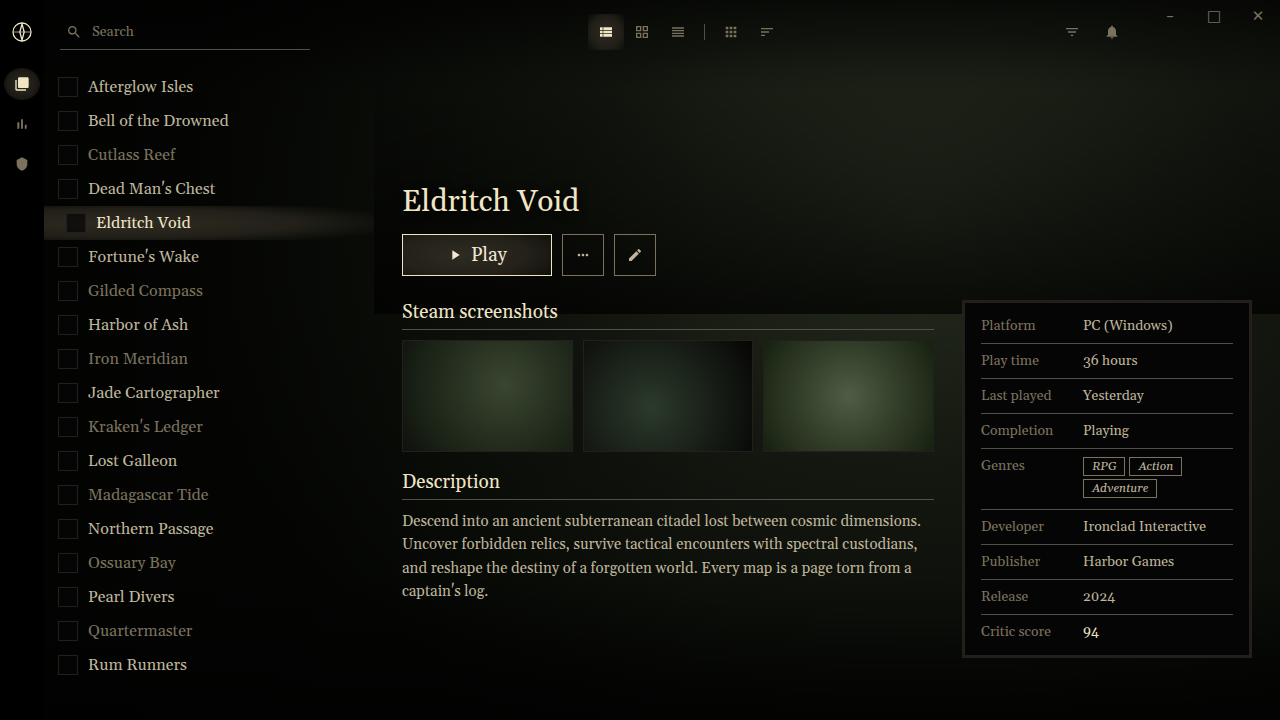
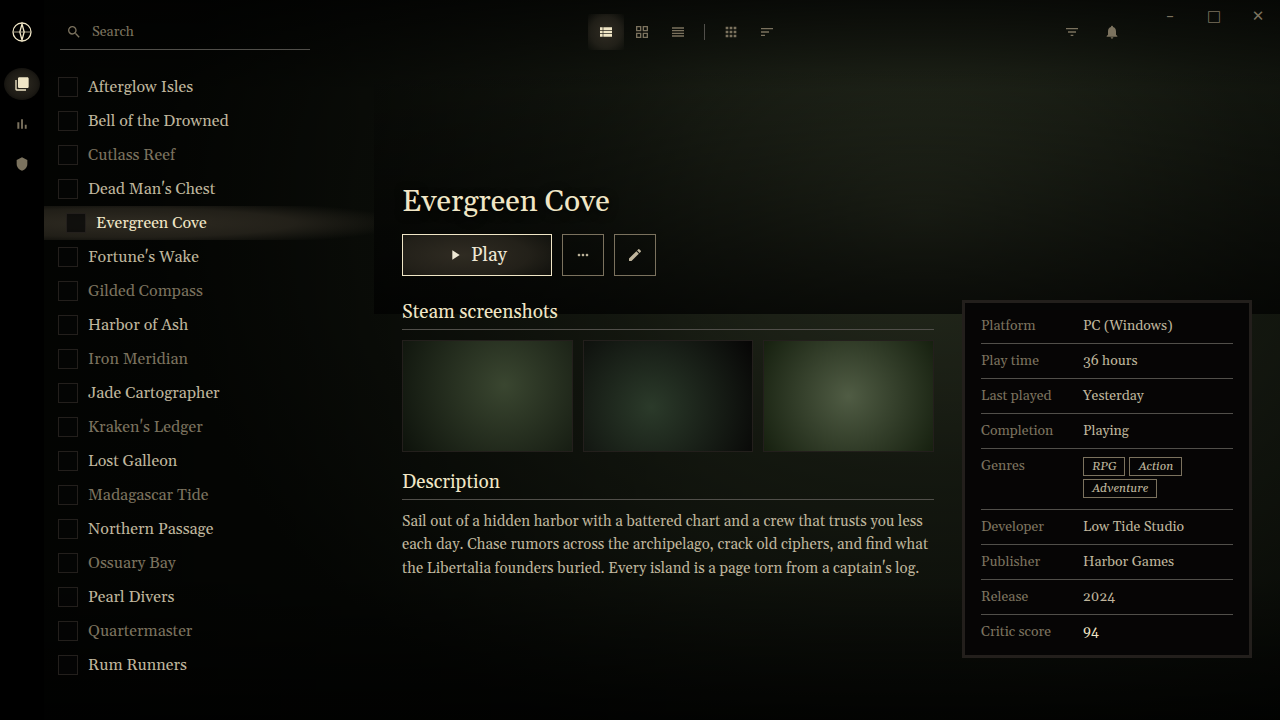
Libertalia: replace CornerRadiusFull on the count badge, refresh previews, unofficial wording in listing
Claude-Session: https://claude.ai/code/session_0189Q9dohYNsLrEuYX1w4Rt1

diff --git a/src/themes/Libertalia/art/preview-details.html b/src/themes/Libertalia/art/preview-details.html
@@ -106,7 +106,7 @@
       <div class="row inst"><span><i></i>Bell of the Drowned</span></div>
       <div class="row"><span><i></i>Cutlass Reef</span></div>
       <div class="row inst"><span><i></i>Dead Man's Chest</span></div>
-      <div class="row sel"><span><i></i>Eldritch Void</span></div>
+      <div class="row sel"><span><i></i>Evergreen Cove</span></div>
       <div class="row inst"><span><i></i>Fortune's Wake</span></div>
       <div class="row"><span><i></i>Gilded Compass</span></div>
       <div class="row inst"><span><i></i>Harbor of Ash</span></div>
@@ -124,14 +124,14 @@
     <div class="page" data-part="game-page">
       <div class="scrim"></div>
       <div class="inner">
-        <h1>Eldritch Void</h1>
+        <h1>Evergreen Cove</h1>
         <div class="acts"><div class="play"><svg class="i"><use href="#play"/></svg>Play</div><div class="sq"><svg class="i"><use href="#more"/></svg></div><div class="sq"><svg class="i"><use href="#edit"/></svg></div></div>
         <div class="cols">
           <div class="left">
             <h2>Steam screenshots</h2>
             <div class="shots"><div style="background:radial-gradient(circle at 60% 40%,#3a4630,#0d120b)"></div><div style="background:radial-gradient(circle at 40% 60%,#2b3a2a,var(--panel))"></div><div style="background:radial-gradient(circle at 50% 50%,#505c44,#16200f)"></div></div>
             <h2>Description</h2>
-            <p>Descend into an ancient subterranean citadel lost between cosmic dimensions. Uncover forbidden relics, survive tactical encounters with spectral custodians, and reshape the destiny of a forgotten world. Every map is a page torn from a captain's log.</p>
+            <p>Sail out of a hidden harbor with a battered chart and a crew that trusts you less each day. Chase rumors across the archipelago, crack old ciphers, and find what the Libertalia founders buried. Every island is a page torn from a captain's log.</p>
           </div>
           <div class="meta" data-part="metadata">
             <div class="g"><em>Platform</em><span>PC (Windows)</span></div>
@@ -139,7 +139,7 @@
             <div class="g"><em>Last played</em><span>Yesterday</span></div>
             <div class="g"><em>Completion</em><span>Playing</span></div>
             <div class="g"><em>Genres</em><span><i class="chip">RPG</i><i class="chip">Action</i><i class="chip">Adventure</i></span></div>
-            <div class="g"><em>Developer</em><span>Ironclad Interactive</span></div>
+            <div class="g"><em>Developer</em><span>Low Tide Studio</span></div>
             <div class="g"><em>Publisher</em><span>Harbor Games</span></div>
             <div class="g"><em>Release</em><span>2024</span></div>
             <div class="g"><em>Critic score</em><span style="color:var(--text-selected)">94</span></div>

diff --git a/src/themes/Libertalia/src/Views/TopPanel.xaml b/src/themes/Libertalia/src/Views/TopPanel.xaml
@@ -128,7 +128,7 @@
                                               Content="{DynamicResource IconNotifications}" ContentTemplate="{DynamicResource IconTemplate}" />
                             <Border MinWidth="15" Height="15" Padding="4,0,4,0" Margin="0,3,2,0"
                                     HorizontalAlignment="Right" VerticalAlignment="Top"
-                                    CornerRadius="{DynamicResource CornerRadiusFull}"
+                                    CornerRadius="{DynamicResource ControlCornerRadius}"
                                     Background="{DynamicResource DangerBrush}">
                                 <TextBlock Text="{Api Notifications.Count}" FontSize="10" FontWeight="SemiBold"
                                            FontFamily="{DynamicResource HeadingFontFamily}"

diff --git a/src/themes/Libertalia/art/preview-settings.html b/src/themes/Libertalia/art/preview-settings.html
@@ -17,7 +17,7 @@
   .tb b { margin-left: auto; width: 44px; height: 32px; display: flex; align-items: center; justify-content: center; font-weight: 300; color: var(--text-rest); }
   .body { flex: 1; min-height: 0; display: flex; }
   .tree { width: 210px; flex: none; border-right: 1px solid var(--hairline); padding: 8px 0; overflow: hidden; }
-  .n { height: 28px; position: relative; color: var(--text-rest); font-size: 15px; }
+  .n { height: 26px; position: relative; color: var(--text-rest); font-size: 15px; }
   .n span { position: absolute; left: 14px; right: 0; top: 0; bottom: 0; display: flex; align-items: center; }
   .n.o span:before { content: "\25BE"; font-size: 10px; margin-right: 6px; }
   .n.c span { left: 32px; }

diff --git a/src/themes/Libertalia/AGENTS.md b/src/themes/Libertalia/AGENTS.md
@@ -52,6 +52,7 @@ Follows the shared skeleton. Differences:
 - **Smudge**: the game's soft light is drawn as a fill through a radial `OpacityMask`, not a blur. Its indent is 6 to 8px instead of the game's 45px at 1080p, so lists don't jump.
 - **No tab strip in the game**: Playnite's tabs become a row of category titles.
 - **Panel frame**: the game's frame is about 6px at 1080p; 3px here on the metadata pane, a 1px hairline on popups (WPF popups keep a thin edge).
+- **Notification count badge** (`TopPanelNotificationsToggle`) uses `ControlCornerRadius` (0, square like every save-slot shape), not `CornerRadiusFull`: the badge is `MinWidth` 15 x `Height` 15 and grows with two-digit counts, so it is not a 1:1 square and a pill radius would distort it.
 - **Scroll bar** has no end arrows.
 - **List view column headers** keep Playnite's Default header style.
 
